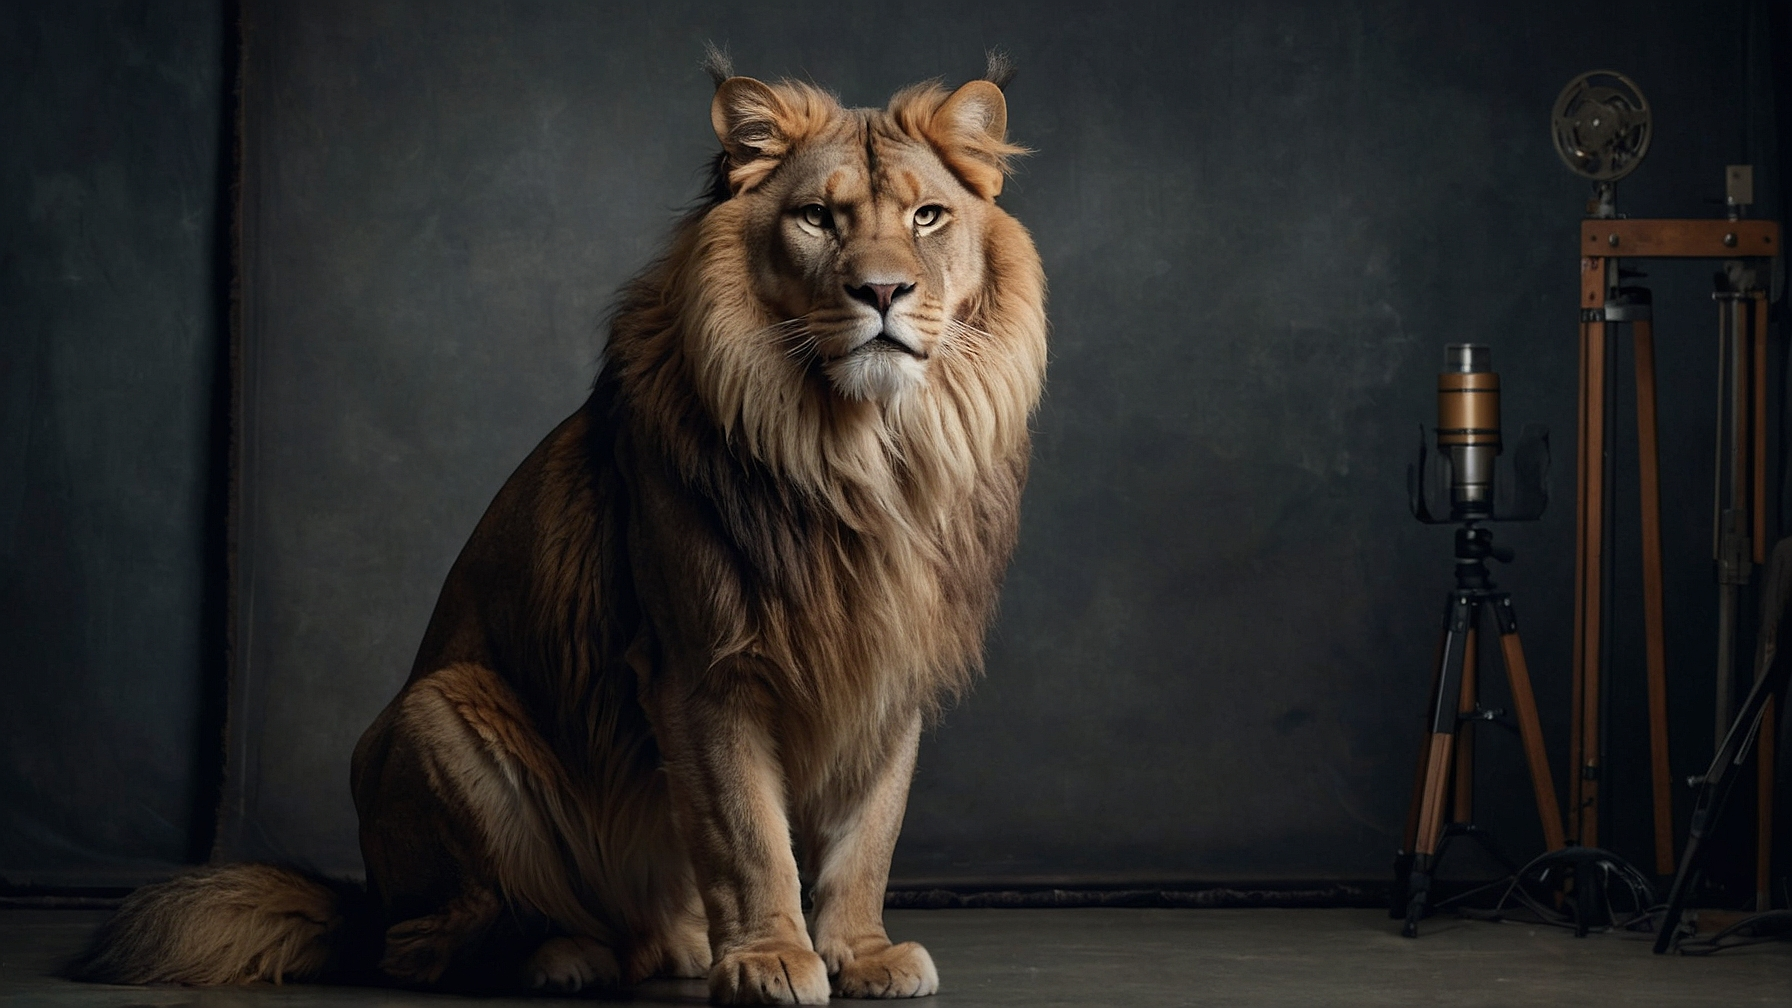
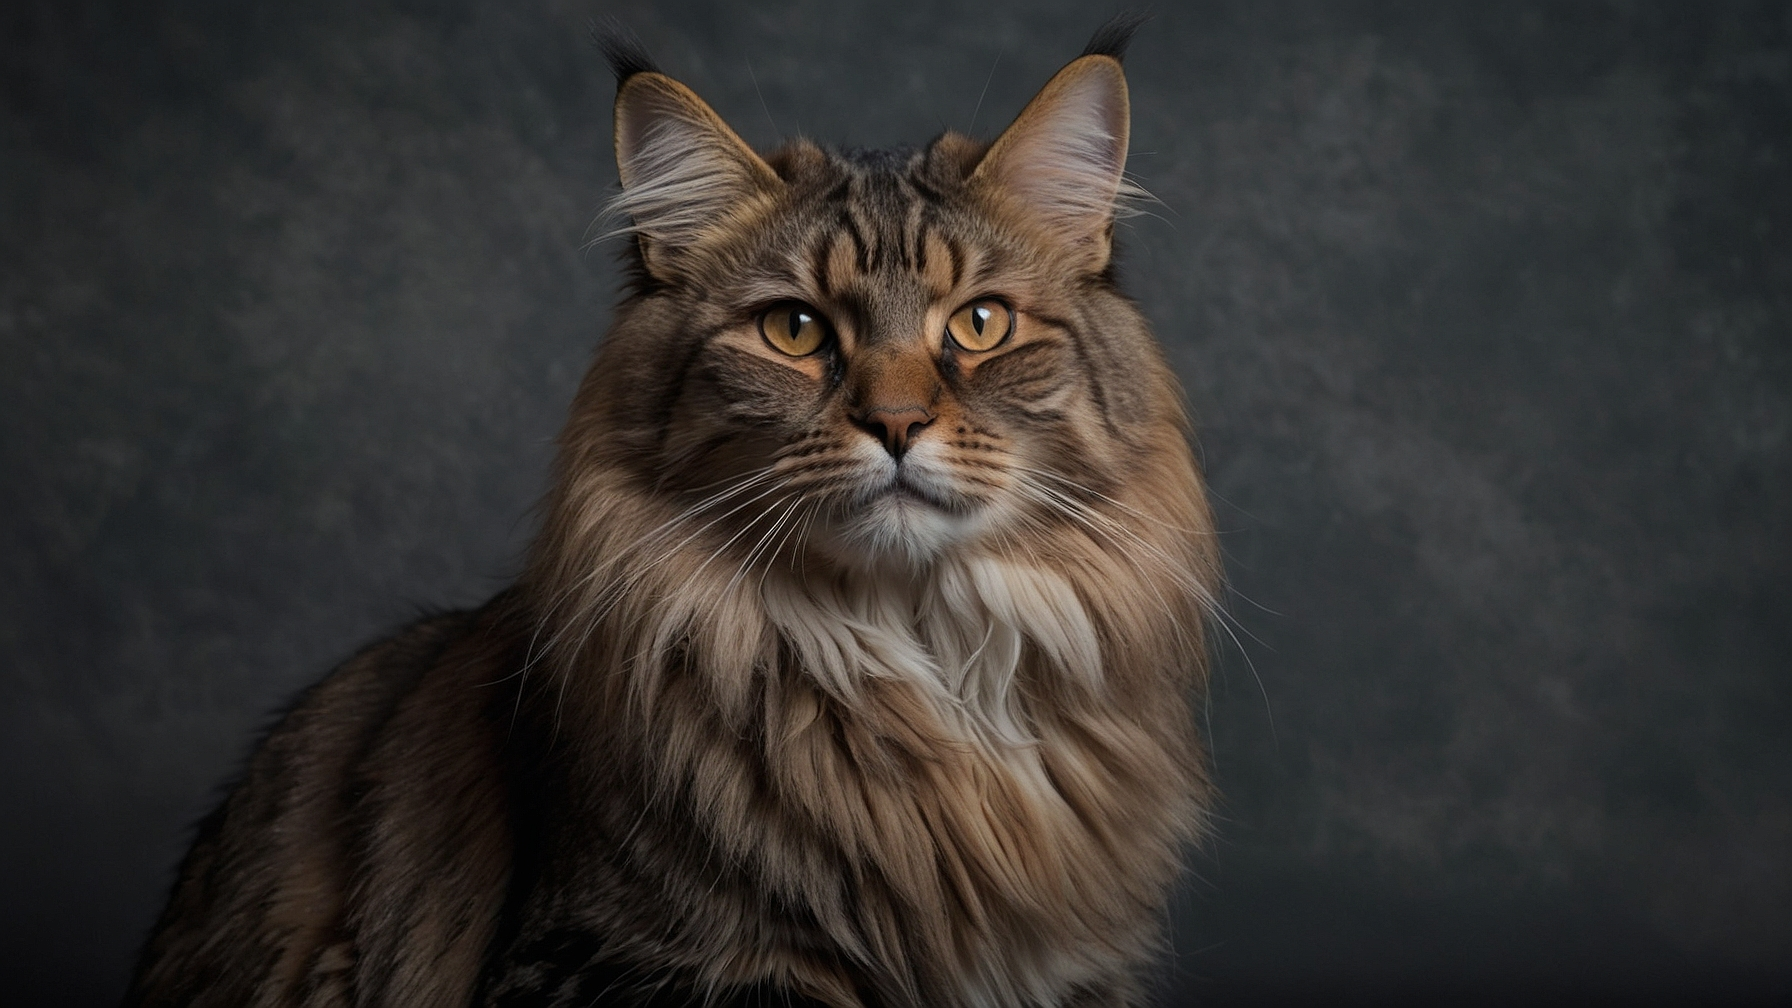
Fix Maine image - regenerat cu prompt mai friendly (domestic cat)

diff --git a/scripts/fix-maine-cat.ts b/scripts/fix-maine-cat.ts
@@ -1,0 +1,23 @@
+#!/usr/bin/env tsx
+
+import { generateArticleImage } from '../lib/leonardo-images';
+import * as path from 'path';
+
+async function main() {
+  console.log('🐱 Generating MAINE CAT (avoiding blocked word)...\n');
+  
+  const prompt = 'Professional studio portrait of the LARGEST domestic cat breed from Maine USA, extremely massive muscular fluffy body, long shaggy brown tabby fur with black stripes, big round friendly amber eyes, cute gentle domestic cat face with prominent whisker pads, thick luxurious neck ruff like a mane, very long bushy fox-like tail, large ears with lynx tips, sitting majestically showing enormous size compared to normal cats, soft gray studio background, professional lighting, hyper-realistic 8k quality. MUST be obviously a DOMESTIC HOUSE CAT with friendly expression.';
+  
+  const imagePath = await generateArticleImage(
+    'maine-coon',
+    prompt,
+    'breeds',
+    undefined,
+    path.join(process.cwd(), 'public', 'images', 'breeds')
+  );
+  
+  console.log(imagePath ? `✅ SUCCESS: ${imagePath}` : '❌ FAILED');
+}
+
+main().catch(console.error);
+

diff --git a/scripts/fix-maine-coon-friendly.ts b/scripts/fix-maine-coon-friendly.ts
@@ -1,0 +1,23 @@
+#!/usr/bin/env tsx
+
+import { generateArticleImage } from '../lib/leonardo-images';
+import * as path from 'path';
+
+async function main() {
+  console.log('🐱 Regenerating Maine Coon - DOMESTIC CAT not lion!\n');
+  
+  const prompt = 'Professional studio portrait of a MASSIVE fluffy domestic house cat, Maine Coon breed, extremely large muscular body with long shaggy brown tabby fur, big round friendly eyes, cute domestic cat face (NOT lion face), prominent neck fur ruff, very bushy tail, large ears with tufts, sitting majestically, gray studio background, soft lighting, hyper-realistic 8k. CRITICAL: must look like a FRIENDLY DOMESTIC CAT with cute face, NOT a wild animal or lion.';
+  
+  const imagePath = await generateArticleImage(
+    'maine-coon',
+    prompt,
+    'breeds',
+    undefined,
+    path.join(process.cwd(), 'public', 'images', 'breeds')
+  );
+  
+  console.log(imagePath ? `✅ ${imagePath}` : '❌ Failed');
+}
+
+main().catch(console.error);
+
